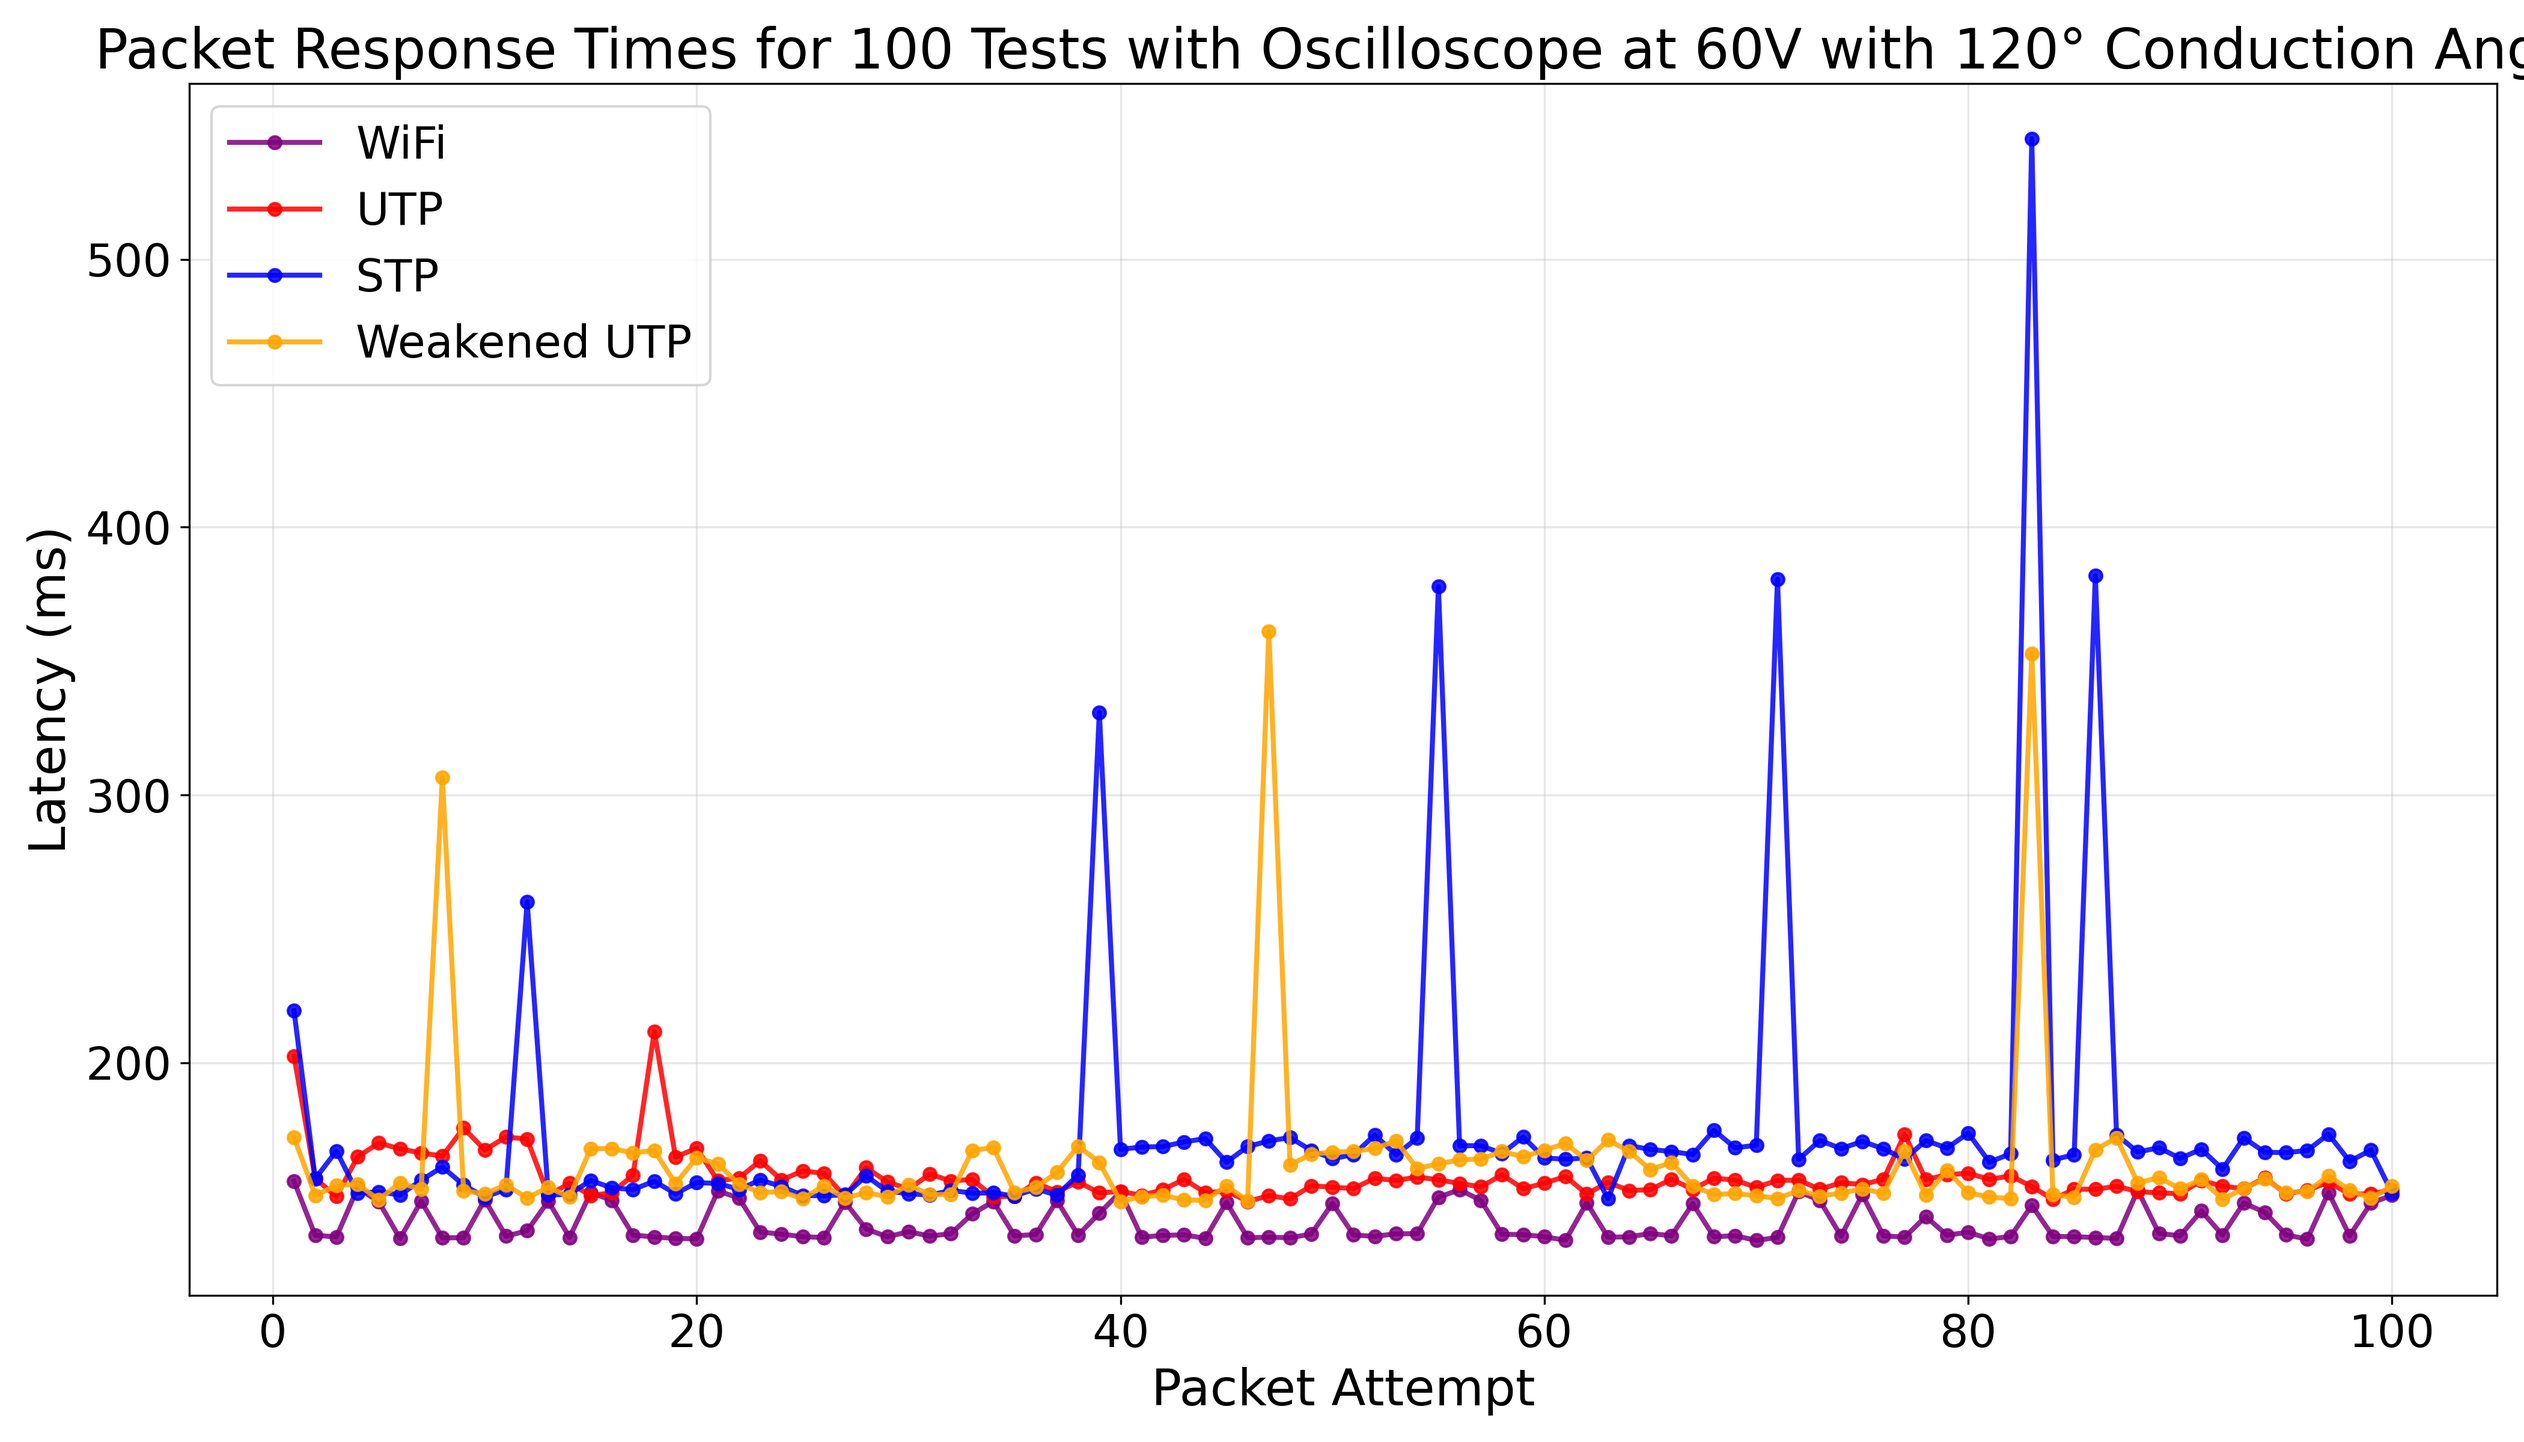
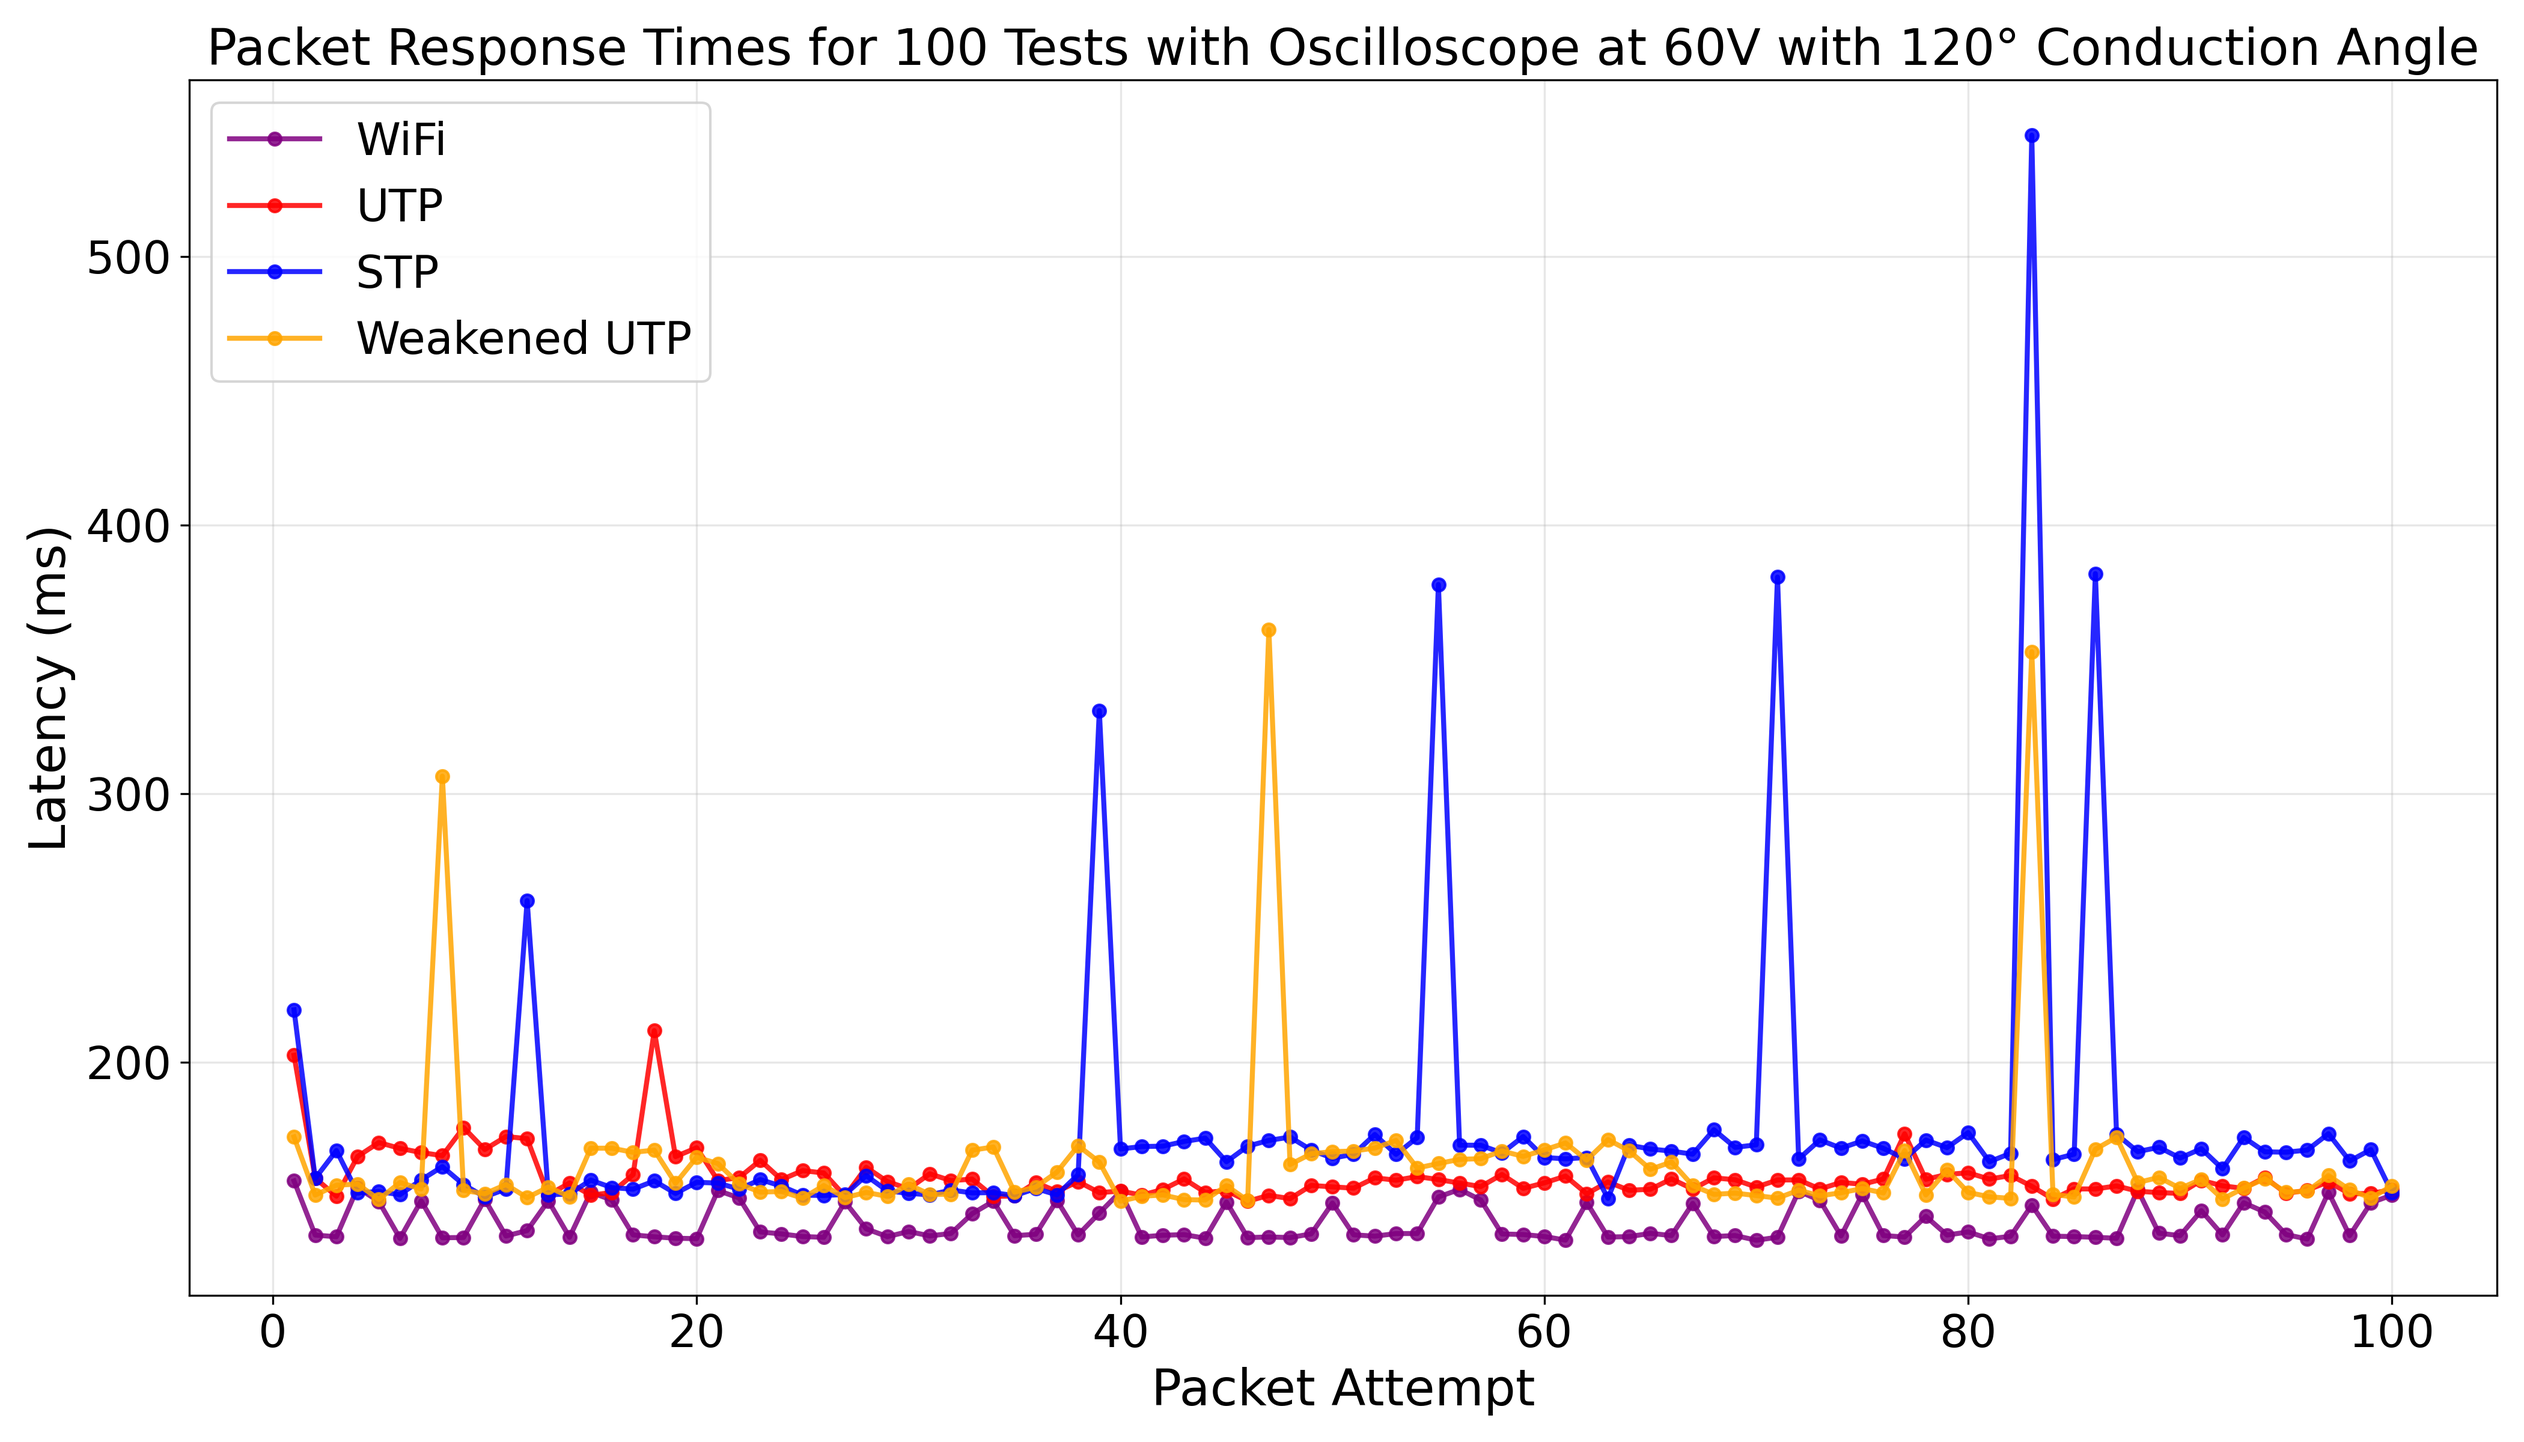
Bug: Lowered Title Font for Latency Figure

diff --git a/oscilloscope_logger/compare_latency_across_types.py b/oscilloscope_logger/compare_latency_across_types.py
@@ -23,7 +23,7 @@ def compare_latency_across_types(files_dict, output_dir="oscilloscope_latency_co
         plt.plot(range(1, len(latency)+1), latency, label=label, color=color, marker='o', markersize=5, linewidth=2, alpha=0.85)
     plt.xlabel("Packet Attempt", fontsize=20)
     plt.ylabel("Latency (ms)", fontsize=20)
-    plt.title("Packet Response Times for 100 Tests with Oscilloscope at 60V with 120° Conduction Angle", fontsize=22)
+    plt.title("Packet Response Times for 100 Tests with Oscilloscope at 60V with 120° Conduction Angle", fontsize=20)
     plt.legend(fontsize=18)
     plt.grid(True, alpha=0.3)
     plt.xticks(fontsize=18)
